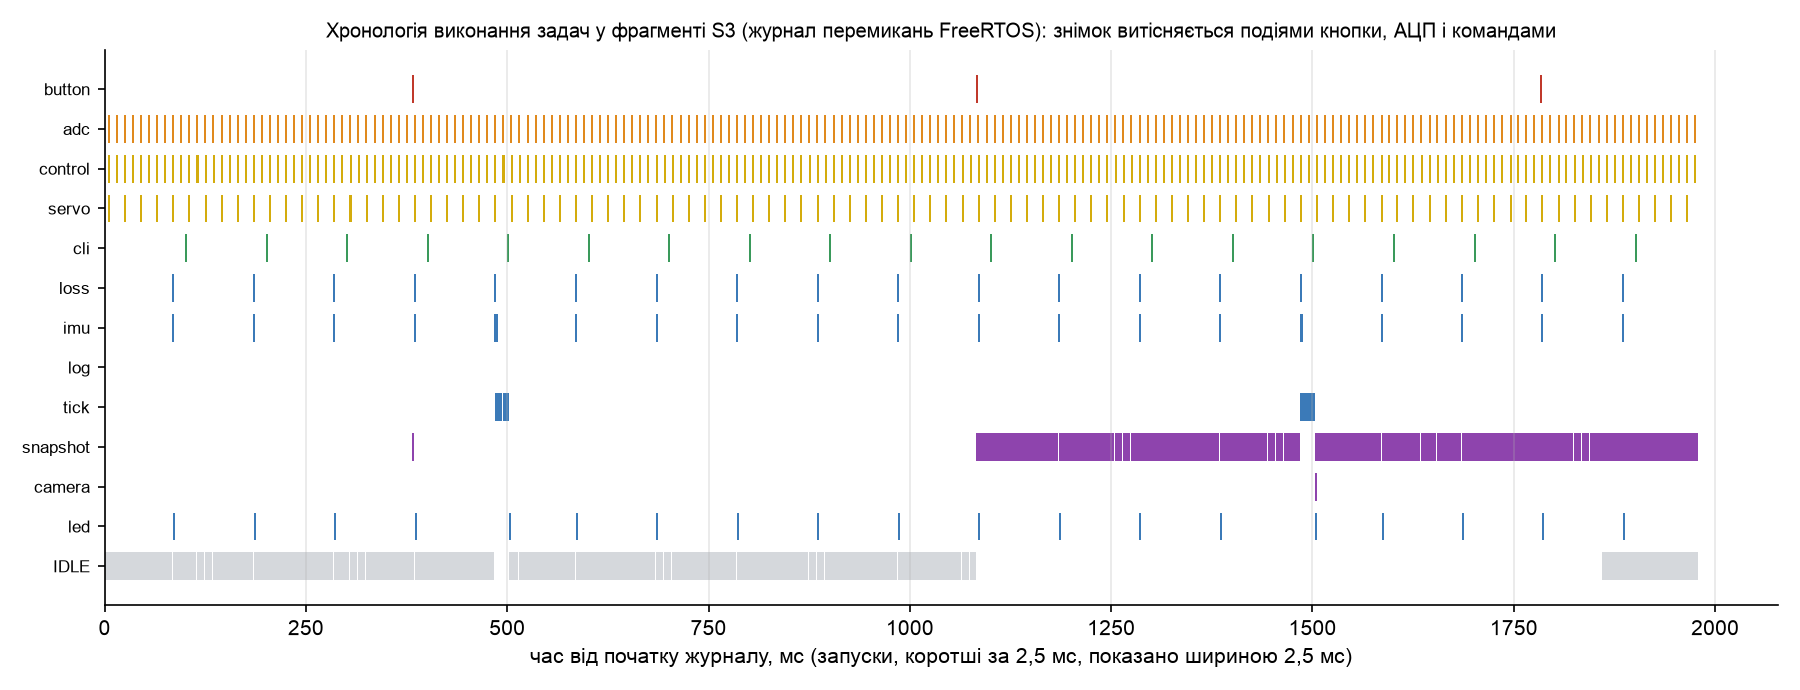
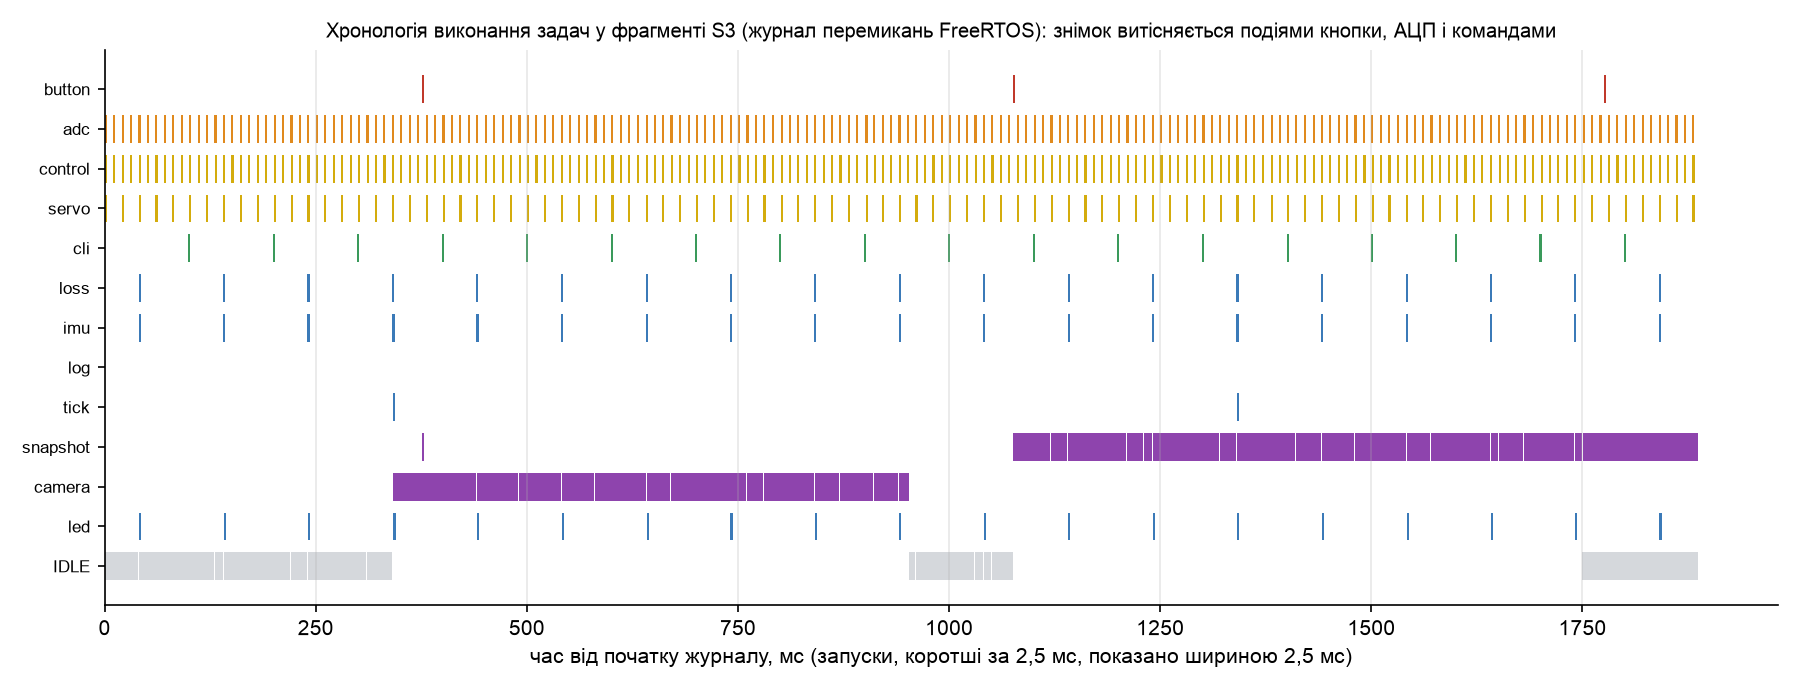
Comparison tool: column for the super loop with UART DMA; figures and line counts from the new logs

diff --git a/tools/compare_lr3_lr4.py b/tools/compare_lr3_lr4.py
@@ -82,18 +82,18 @@ def table_main():
     rows = []
 
     def row(metric, scen, tag, fn, req, tool, unit="", conv=None, kind="max", better_low=True, req_val=None):
-        a, b = runs("lr3", tag), runs("lr4", tag)
-        va, vb = vals(a, fn), vals(b, fn)
+        a, b, f = runs("lr3", tag), runs("lr4", tag), runs("lr3f", tag)
+        va, vb, vf = vals(a, fn), vals(b, fn), vals(f, fn)
         if conv:
-            va, vb = [conv(x) for x in va], [conv(x) for x in vb]
+            va, vb, vf = [conv(x) for x in va], [conv(x) for x in vb], [conv(x) for x in vf]
         agg = max if kind == "max" else (lambda x: sum(x) / len(x))
-        ra, rb = (agg(va) if va else None), (agg(vb) if vb else None)
-        rows.append(dict(metric=metric, scen=scen, lr3=ra, lr4=rb, lr3_runs=va, lr4_runs=vb, req=req, tool=tool, unit=unit, req_val=req_val, better_low=better_low))
+        ra, rb, rf = (agg(va) if va else None), (agg(vb) if vb else None), (agg(vf) if vf else None)
+        rows.append(dict(metric=metric, scen=scen, lr3=ra, lr4=rb, lr3f=rf, lr3_runs=va, lr4_runs=vb, lr3f_runs=vf, req=req, tool=tool, unit=unit, req_val=req_val, better_low=better_low))
 
     row("Затримка реакції: від події до початку реакції, max", "S3", "s3", stat("evt_latency", "max_us"), "≤ 50 мс", "DWT + апаратний момент події (TIM2)", " мс", ms, req_val=50)
     row("Затримка реакції: від події до початку реакції, середня", "S3", "s3", stat("evt_latency", "avg_us"), "—", "DWT + апаратний момент події", " мс", ms, kind="avg")
     row("Затримка реакції: від входу в ISR до початку реакції, max", "S3", "s3", stat("btn_latency", "max_us"), "—", "DWT (як у ЛР3)", " мс", ms)
-    row("Подій кнопки оброблено / втрачено", "S3", "s3", lambda r: r["load"].get("btn_lost"), "0", "лічильник", "", None, req_val=0)
+    row("Подій кнопки втрачено", "S3", "s3", lambda r: r["load"].get("btn_lost"), "0", "лічильник", "", None, req_val=0)
     row("Джитер АЦП (запізнення старту), max", "S3", "s3", stat("adc", "late_max_us"), "≤ 2 мс", "DWT", " мс", ms, req_val=2)
     row("Джитер АЦП, max", "S2", "s2", stat("adc", "late_max_us"), "≤ 2 мс", "DWT", " мс", ms, req_val=2)
     row("Пропущені періоди АЦП за 60 с", "S3", "s3", stat("adc", "missed"), "0", "DWT", "", None, req_val=0)
@@ -131,6 +131,8 @@ def verdict(r):
 
 
 def md_main(rows):
+    if any(r.get("lr3f_runs") for r in rows):
+        return md_main3(rows)
     out = ["| Метрика | Сценарій | Super loop (ЛР3) | FreeRTOS (ЛР4) | Різниця | Вимога PRD | Інструмент | Хто кращий |", "|---|---|---|---|---|---|---|---|"]
     for r in rows:
         a, b = r["lr3"], r["lr4"]
@@ -141,6 +143,21 @@ def md_main(rows):
             ratio = (a / b) if b else None
             diff = f"{d:+.2f}{r['unit']}" + (f", ÷{ratio:.0f}" if ratio and ratio >= 2 else (f", ×{b / a:.1f}" if a and b / a >= 2 else ""))
         out.append(f"| {r['metric']} | {r['scen']} | {fmt_runs(r['lr3_runs'], r['unit'])} | {fmt_runs(r['lr4_runs'], r['unit'])} | {diff} | {r['req']} | {r['tool']} | {verdict(r)} |")
+    return "\n".join(out)
+
+
+def md_main3(rows):
+    """Те саме плюс колонка «super loop з UART через DMA» (ЛР3 після виправлення проблеми 20, збірка lab3-fix)."""
+    out = ["| Метрика | Сценарій | Super loop (ЛР3) | Super loop + UART DMA | FreeRTOS (ЛР4) | Різниця ЛР4 − ЛР3 | Вимога PRD | Інструмент | Хто кращий (ЛР3 / ЛР4) |", "|---|---|---|---|---|---|---|---|---|"]
+    for r in rows:
+        a, b = r["lr3"], r["lr4"]
+        if a is None or b is None:
+            diff = "—"
+        else:
+            d = b - a
+            ratio = (a / b) if b else None
+            diff = f"{d:+.2f}{r['unit']}" + (f", ÷{ratio:.0f}" if ratio and ratio >= 2 else (f", ×{b / a:.1f}" if a and b / a >= 2 else ""))
+        out.append(f"| {r['metric']} | {r['scen']} | {fmt_runs(r['lr3_runs'], r['unit'])} | {fmt_runs(r.get('lr3f_runs'), r['unit'])} | {fmt_runs(r['lr4_runs'], r['unit'])} | {diff} | {r['req']} | {r['tool']} | {verdict(r)} |")
     return "\n".join(out)
 
 
@@ -166,7 +183,8 @@ def main():
     ap.add_argument("--json")
     a = ap.parse_args()
     rows = table_main()
-    print(md_main(rows))
+    has3f = any(r.get("lr3f_runs") for r in rows)
+    print(md_main3(rows) if has3f else md_main(rows))
     for tag in ("s3", "s2"):
         t = md_tasks(tag)
         if t:

diff --git a/tools/make_figures_lr4.py b/tools/make_figures_lr4.py
@@ -153,7 +153,7 @@ def fig_trace():
         ax.set_xlim(c - 8, c + 8)
         ax.set_yticks(range(len(names))); ax.set_yticklabels(names, fontsize=8); ax.invert_yaxis()
         ax.set_xlabel("мс"); ax.grid(axis="x", alpha=0.3)
-        ax.set_title("Збільшено: подія кнопки будить button і snapshot; adc, imu, led витісняють snapshot (пріоритет 1)", fontsize=9.5)
+        ax.set_title("Збільшено: подія кнопки будить button і snapshot; кожні 10 мс adc, control і servo витісняють snapshot (пріоритет 1)", fontsize=9.5)
         ax.spines[["top", "right"]].set_visible(False)
         fig.tight_layout(); fig.savefig(os.path.join(OUT, "fig_trace_zoom.png"), dpi=150); plt.close(fig)
 

diff --git a/docs/rtos-design.md b/docs/rtos-design.md
@@ -29,13 +29,13 @@
 | `loss` | 100 мс | 2 | 96 (384) | FR-14 | детектор падіння світла за 2 с — повільний процес |
 | `imu` | 100 мс | 2 | 224 (896) | FR-17 | блокувальний I²C (до сотень мс у разі відмови шини) — не повинен впливати на вищі задачі (реєстр № 4) |
 | `log` | черга `q_log` | 2 | 256 (1024) | FR-07, 08 | запис у flash можна відкласти |
-| `tick` | 1 с | 2 | 320 (1280) | FR-18 | рядок лога блокує UART на 18 мс (реєстр № 4) |
+| `tick` | 1 с | 2 | 320 (1280) | FR-18 | рядок лога раз на секунду; у ЛР3 він блокував цикл на 18 мс (реєстр № 4), з DMA — 0,15 мс |
 | `snapshot` | сповіщення (`xTaskNotifyGive`) | **1** | 288 (1152) | FR-11, 14, 15 | довга операція: кадр + стирання і запис 19 КБ (реєстр № 5) — має поступатись усім |
 | `camera` | 3 с | **1** | 224 (896) | FR-11, 12, 16 | захоплення кадру 0,4–0,8 с — теж довга операція |
 | `led` | 100 мс | 1 | 96 (384) | FR-10 | індикація, некритична |
 | IDLE | автоматично | 0 | 128 (512) | — | простій; частка IDLE = вільний CPU |
 
-Сума зарезервованих стеків задач: 2 256 слів = 9 024 байти. Реально використаний максимум кожної задачі після найгіршого сценарію S3 — у `docs/comparison.md` і на рисунку `lab_4/img/fig_stacks.png`; розміри вибрано за виміряним `usStackHighWaterMark`. Найменший запас у `cli` (після S3 вільно 83 слова з 320, тобто 26 %), бо вона форматує довгі відповіді `printf`; у решти задач вільно від 55 % (`led`) до 90 % (`IDLE`).
+Сума зарезервованих стеків задач: 2 256 слів = 9 024 байти. Реально використаний максимум кожної задачі після найгіршого сценарію S3 — у `docs/comparison.md` і на рисунку `lab_4/img/fig_stacks.png`; розміри вибрано за виміряним `usStackHighWaterMark`. Найменший запас у `cli` (після S3 вільно 131 слово з 320, тобто 41 %; за годину роботи — 120 слів, 37 %), бо вона форматує довгі відповіді `printf`; у решти задач вільно від 55 % (`servo`) до 90 % (`IDLE`).
 
 Чому дванадцять задач, а не менше: щоб STAT-рядки (`STAT name=adc …`) мали ті самі імена, що в ЛР3, і скрипти аналізу та таблиці порівнювали одне з одним. Ціна — окремий стек на кожну задачу.
 
@@ -44,13 +44,13 @@
 | Від → до | Механізм | Що передається | Чому цей механізм |
 |---|---|---|---|
 | ISR кнопки → `button` | черга `q_btn` (16 × `uint32_t`) | мітка DWT фронту | кілька подій поспіль не зливаються (у ЛР3 один слот губив 28 з 48 натискань); мітка кожної події зберігається |
-| ISR USART2 → `cli` | stream buffer `sb_rx` (256 Б) | прийняті байти | один записувач (ISR), один читач |
+| DMA1 Stream5 → ISR USART2 / DMA → `cli` | кільцевий буфер DMA 256 Б, далі stream buffer `sb_rx` (256 Б) | прийняті байти | DMA пише сам, без процесора; ISR (`IDLE`, половина / кінець буфера) лише переносить нові байти; один записувач, один читач |
 | тік ОС → періодичні задачі | `vTaskDelayUntil` | пробудження без накопичення похибки | зберігає період, не залежить від часу виконання |
 | `control`, `loss`, `camera` → `log` | черга `q_log` (16 × запис 16 Б) | копія структури події | швидкі задачі не пишуть у flash самі |
 | `button`, `loss`, `control` → `snapshot` | сповіщення задачі `xTaskNotifyGive` | «зроби знімок» | отримувач відомий, сповіщення легше за семафор |
 | `log`, `snapshot`, `cli` ↔ SPI2/W25Q64 | м'ютекс `flash_mx` (успадкування пріоритету) | право на шину | flash-пам'ять одна, запис триває сотні мс |
 | `camera`, `snapshot`, `cli` ↔ `g_frame` | м'ютекс `frame_mx` | право на буфер кадру 19 200 Б | один буфер (економить 19 КБ RAM, проблема 17 ЛР3) |
-| `tick`, `cli` та інші ↔ UART | м'ютекс `print_mx` у `__wrap_printf` | право на виведення | `printf` (newlib) не реентерабельний |
+| `tick`, `cli` та інші ↔ UART | м'ютекс `print_mx` у `__wrap_printf`, далі кільце виводу 4 КБ і DMA1 Stream6 | право на виведення | `printf` (newlib) не реентерабельний; задача не чекає UART: кладе текст у кільце і повертається, при повному кільці спить `vTaskDelay(1)` |
 | `adc` → `control`, `tick` | `q[4]` у критичній секції (`taskENTER_CRITICAL`, < 10 мкс) | вимір квадранта | чотири слова копіюються атомарно |
 | `control` → решта | `trk` (режим) у критичній секції на запис | стан трекера | читання скалярів атомарне |
 
@@ -63,7 +63,9 @@
 | SysTick | 15 (мінімальний, `configKERNEL_INTERRUPT_PRIORITY`) | `HAL_IncTick()` і `xPortSysTickHandler()`; час обробника міряється DWT | — |
 | PendSV, SVC | 15, 0 | перемикання контексту і запуск першої задачі (порт) | — |
 | EXTI15_10 (кнопка), TIM2 (імітатор) | **6** | `xQueueSendFromISR(q_btn)` | `button` |
-| USART2 | **6** | `xStreamBufferSendFromISR(sb_rx)` | `cli` |
+| USART2 (`IDLE`), DMA1 Stream5 (половина / кінець буфера прийому) | **6** | переносить нові байти з буфера DMA: `xStreamBufferSendFromISR(sb_rx)` | `cli` |
+| DMA1 Stream6 (кінець порції виводу) | **6** | запускає наступну порцію з кільця | — |
+| HardFault | — | дописує кільце виводу, друкує `FATAL HardFault` прямо в регістр, перезапуск | — |
 
 * `configLIBRARY_MAX_SYSCALL_INTERRUPT_PRIORITY = 5`: ISR, що викликають API ядра, мають пріоритет числово не менший за 5; у нас 6. У ЛР3 вони мали 1, тому довелось перенастроїти.
 * `HAL_Init()` встановлює `NVIC_PRIORITYGROUP_4`: усі 4 біти — пріоритет (`configPRIO_BITS = 4`), підгруп немає. Без цього `configASSERT` порту зупиняє програму.
@@ -98,7 +100,7 @@
 У ЛР3 `platform_cam_capture` вимикав переривання на весь кадр (0,4–0,8 с): пропадали тіки SysTick (лічильник `uwTick` доганявся), байти UART і події кнопки. На FreeRTOS це знищило б сенс витіснення. У ЛР4 введено режим 1 (`platform_cam_set_irq_mode(1)`):
 
 * кадр складається з 120 рядків; період рядка ≈ 3,1 мс, а активна частина (HREF = 1) триває ≈ 640 мкс;
-* переривання вимикаються лише на ~250 мкс до початку рядка і до його кінця (вікно ≤ 0,9 мс, менше за тік 1 мс), решту часу ISR і задачі працюють;
+* переривання вимикаються лише на ~250 мкс до початку рядка і до його кінця (вікно 0,9–1,05 мс за `CAMDIAG` і `OSCOST`, тобто близько тіка 1 мс), решту часу ISR і задачі працюють;
 * якщо задачу витіснили і вікно проґавлено, наступний рядок чекає HREF з увімкненими перериваннями; якщо кадр скінчився раніше (VSYNC піднявся), хвіст добирається повтором останнього рядка;
 * лічильники діагностики: `cam_irq_off_max_us`, `cam_short_frames`, `cam_lines_lost` у команді `OSCOST`.
 
@@ -113,7 +115,9 @@
 | Голодування | задача високого пріоритету без блокування | сценарій `TEST STARVE` |
 | Вичерпання черги | `q_log` 16 записів | `pend_lost`, `btn_lost`; сценарій `TEST QFLOOD` |
 | Вичерпання heap ОС | `pvPortMalloc` | `vApplicationMallocFailedHook`; сценарій `TEST HEAP` |
-| Втрата тіків при вимкнених перериваннях | захоплення кадру | вікна ≤ 0,9 мс (розділ 6) |
+| Втрата тіків і байтів UART при вимкнених перериваннях | захоплення кадру | вікна ≈ 1 мс (розділ 6); прийом UART через DMA |
+| Тайм-аут HAL при витісненні | обмін по SPI у `snapshot` (P1), яку витісняють | тайм-аут HAL рахується за годинником, тому для SPI взято 1 с замість 100 мс; код помилки — `flash_last_rc` у `LOAD` (проблема 29) |
+| Задача крутиться в очікуванні периферії | друк через `HAL_UART_Transmit` | вивід через DMA, задача спить, а не чекає (проблема 27) |
 
 ## 8. Додані команди (старі не змінено)
 
